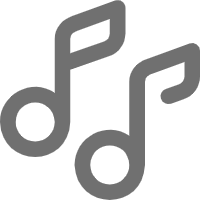
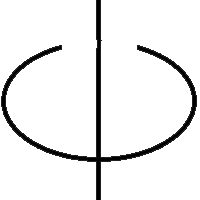
暂存

diff --git a/src/DataVisualization/ColorTab.cpp b/src/DataVisualization/ColorTab.cpp
@@ -63,7 +63,7 @@ void ColorTab::resizeEvent(QResizeEvent * event)
 */
 void ColorTab::changmoveColor(std::vector<float>& val, std::vector<QColor>& colors,const QColor& firstColor,const QColor& endColor)
 {
-	QwtInterval interval(0, 1);
+	QwtInterval interval(0.0, 1.0);
 	QwtLinearColorMap* colormap = new QwtLinearColorMap(firstColor, endColor);
 	//colormap->setMode(QwtLinearColorMap::Mode::FixedColors);
 	switch (style)
@@ -74,6 +74,8 @@ void ColorTab::changmoveColor(std::vector<float>& val, std::vector<QColor>& colo
 		colormap->setMode(QwtLinearColorMap::Mode::ScaledColors); break;
 	}
 	{
+		/*colormap->addColorStop(0,firstColor);
+		colormap->addColorStop(0.9, endColor);*/
 		for (auto index = 0; index < val.size(); index++)
 			colormap->addColorStop(val[index],colors[index]);
 	}
@@ -88,7 +90,7 @@ std::vector<QColor> ColorTab::GetColors(std::vector<float> vals)
 {
 	std::vector<QColor> colors;
 	colors.clear();
-	QwtInterval interval(0,1);
+	QwtInterval interval(0.0,1.0);
 	for (auto index = 0; index < vals.size();index++)
 	{
 		colors.push_back(scaleWidget->colorMap()->color(interval, vals[index]));
@@ -103,8 +105,8 @@ std::vector<QColor> ColorTab::GetColors(std::vector<float> vals)
 */
 void ColorTab::setColors(std::vector<float>& vals, std::vector<QColor>& colors)
 {
-	QwtInterval interval(0,1);
-	QwtLinearColorMap* colormap = new QwtLinearColorMap(/**colors.begin(),*(colors.end()-1)*/);
+	QwtInterval interval(0.0f,1.0f);
+	QwtLinearColorMap* colormap = new QwtLinearColorMap(*colors.begin(),*(colors.end()-1));
 	switch (style)
 	{
 	case 0:
@@ -112,7 +114,7 @@ void ColorTab::setColors(std::vector<float>& vals, std::vector<QColor>& colors)
 	case 1:
 		colormap->setMode(QwtLinearColorMap::Mode::ScaledColors); break;
 	}
-	for (auto index = 0; index < colors.size();index++)
+	for (auto index = 1; index < colors.size()-1;index++)
 	{
 		colormap->addColorStop(vals[index], colors[index]);
 	}

diff --git a/src/DataVisualization/ConfigWidget.cpp b/src/DataVisualization/ConfigWidget.cpp
@@ -551,8 +551,9 @@ void ConfigWidget::loadxmlConfig(){
 			QPalette qpalette2 = ui->endColorBtn->palette();
 			qpalette2.setColor(QPalette::Button, *(colors.end() - 1));
 			ui->endColorBtn->setPalette(qpalette2);
-			arrowCtrl->SetFirstColor(*colors.begin());
 			arrowCtrl->SetEndColor(*(colors.end() - 1));
+			arrowCtrl->SetFirstColor(*colors.begin());
+			
 		}
 		
 	}

diff --git a/src/DataVisualization/main.cpp b/src/DataVisualization/main.cpp
@@ -26,8 +26,8 @@ int main(int argc, char *argv[])
 	manager.loadhdffile(path);
 	p.showMaximized();
 	treectrl.show();
-	//ConfigWidget m_configwidget;
-	//m_configwidget.show();
+	ConfigWidget m_configwidget;
+	m_configwidget.show();
 #endif
 	//pull request test
 	return a.exec();

diff --git a/src/DataVisualization/StructRender.cpp b/src/DataVisualization/StructRender.cpp
@@ -392,7 +392,6 @@ bool StructRender::drawImageRectspace(){
 				QLineF linef = *iterline;
 			}
 			QVector<QLineF> lines = QVector<QLineF>::fromStdVector(iter->second);
-			//painter.drawLines(lines);
 			DrawLine(painter, lines, 0);
 		}
 	}
